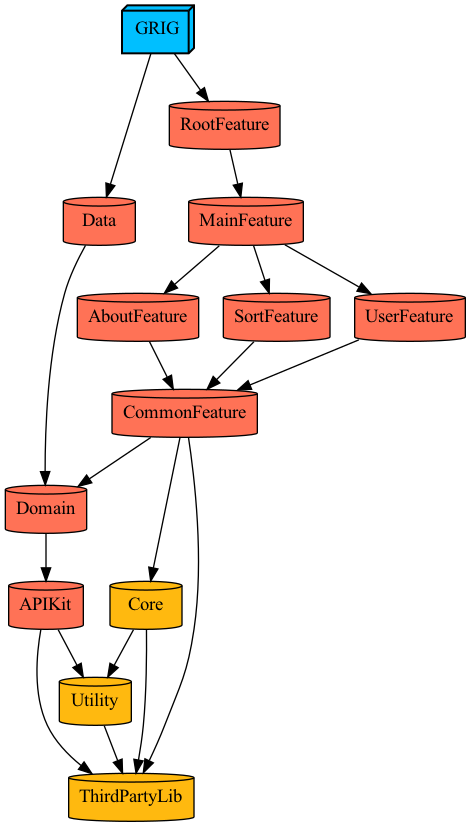
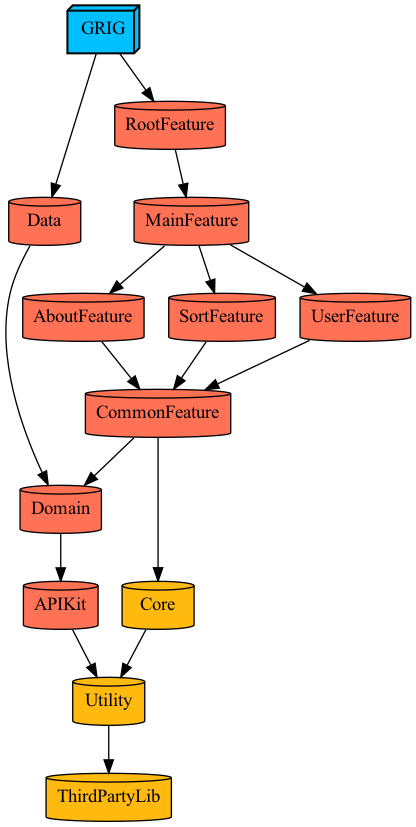
:sparkles: :: Dependency Cycle 해결

Changed region(s): [[0.0, 0.0, 1.0, 0.9976], [0.1562, 0.1511, 0.1875, 0.1814], [0.0312, 0.4837, 0.0625, 0.5139]]

diff --git a/Projects/Service/APIKit/Project.swift b/Projects/Service/APIKit/Project.swift
@@ -5,7 +5,6 @@ let project = Project.staticFramework(
     name: "APIKit",
     sources: ["Sources/**", "Sources/**/*.graphql"],
     dependencies: [
-        .Project.Module.ThirdPartyLib,
         .Project.Module.Utility
     ]
 )

diff --git a/Projects/Features/CommonFeature/Project.swift b/Projects/Features/CommonFeature/Project.swift
@@ -5,7 +5,6 @@ let project = Project.staticFramework(
     name: "CommonFeature",
     dependencies: [
         .Project.Service.Domain,
-        .Project.Module.ThirdPartyLib,
         .Project.Module.Core
     ]
 )

diff --git a/Projects/Modules/Core/Project.swift b/Projects/Modules/Core/Project.swift
@@ -5,7 +5,6 @@ let project = Project.framework(
     name: "Core",
     resources: ["Resources/**"],
     dependencies: [
-        .Project.Module.ThirdPartyLib,
         .Project.Module.Utility
     ]
 )
